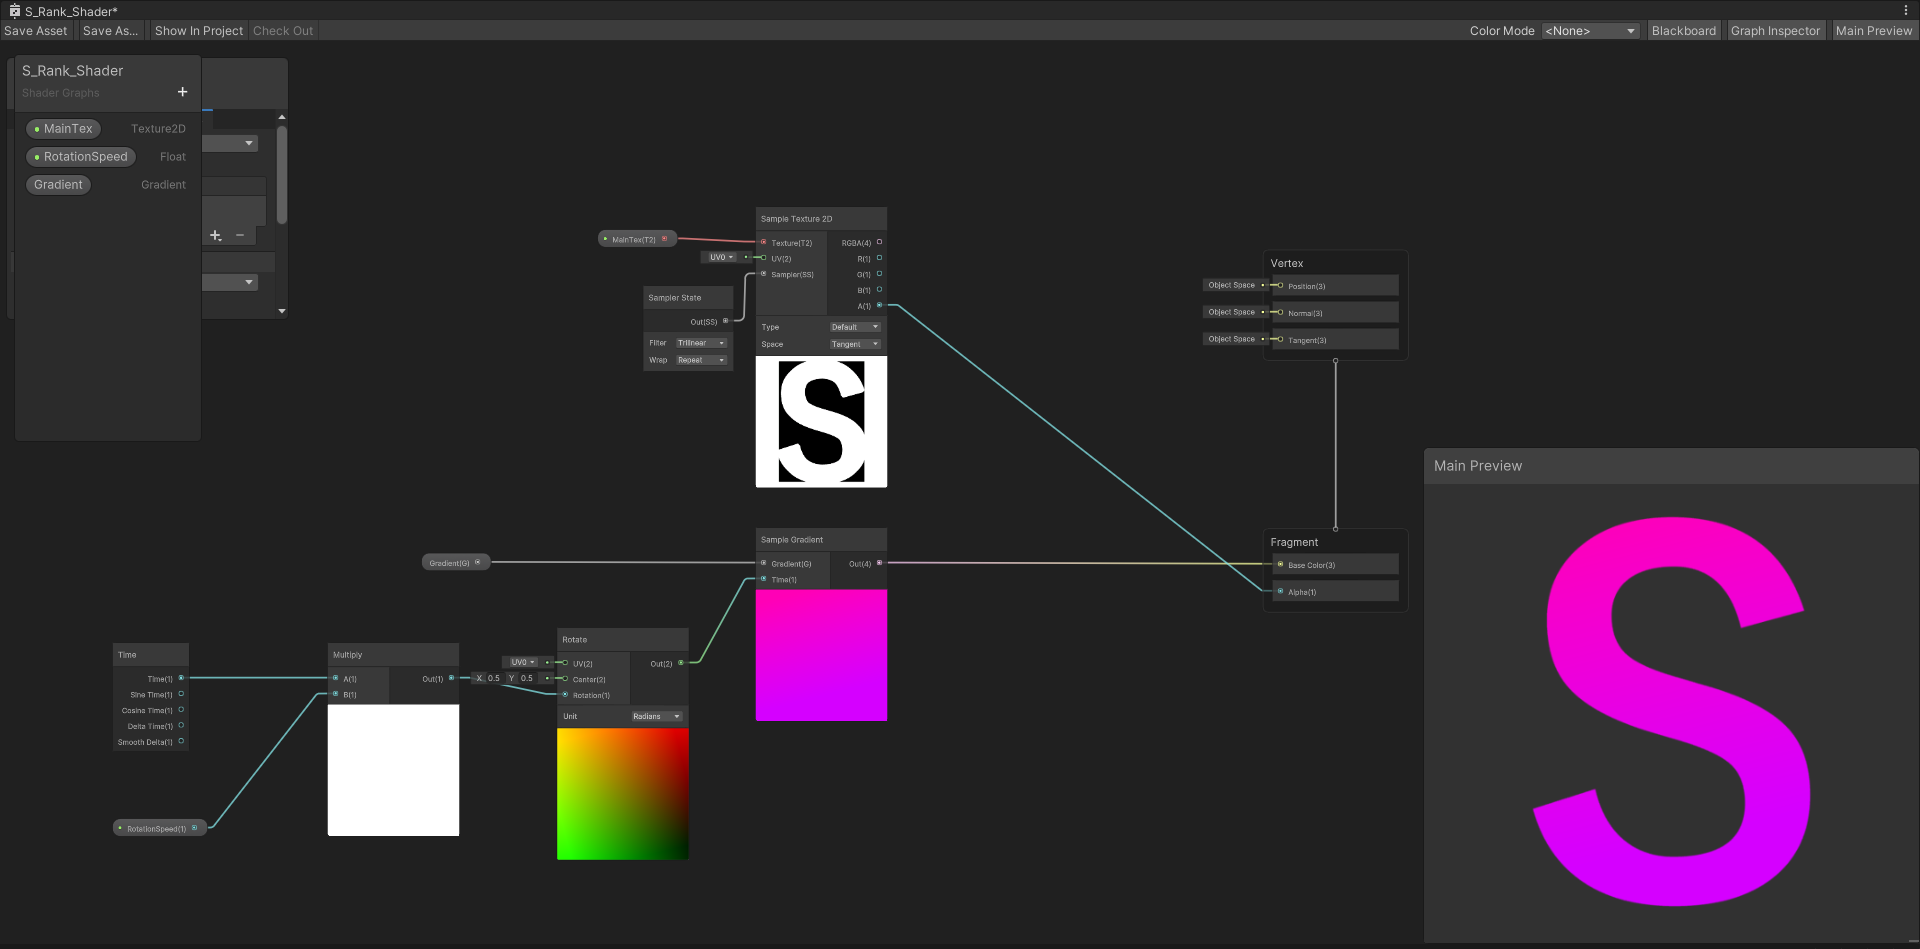
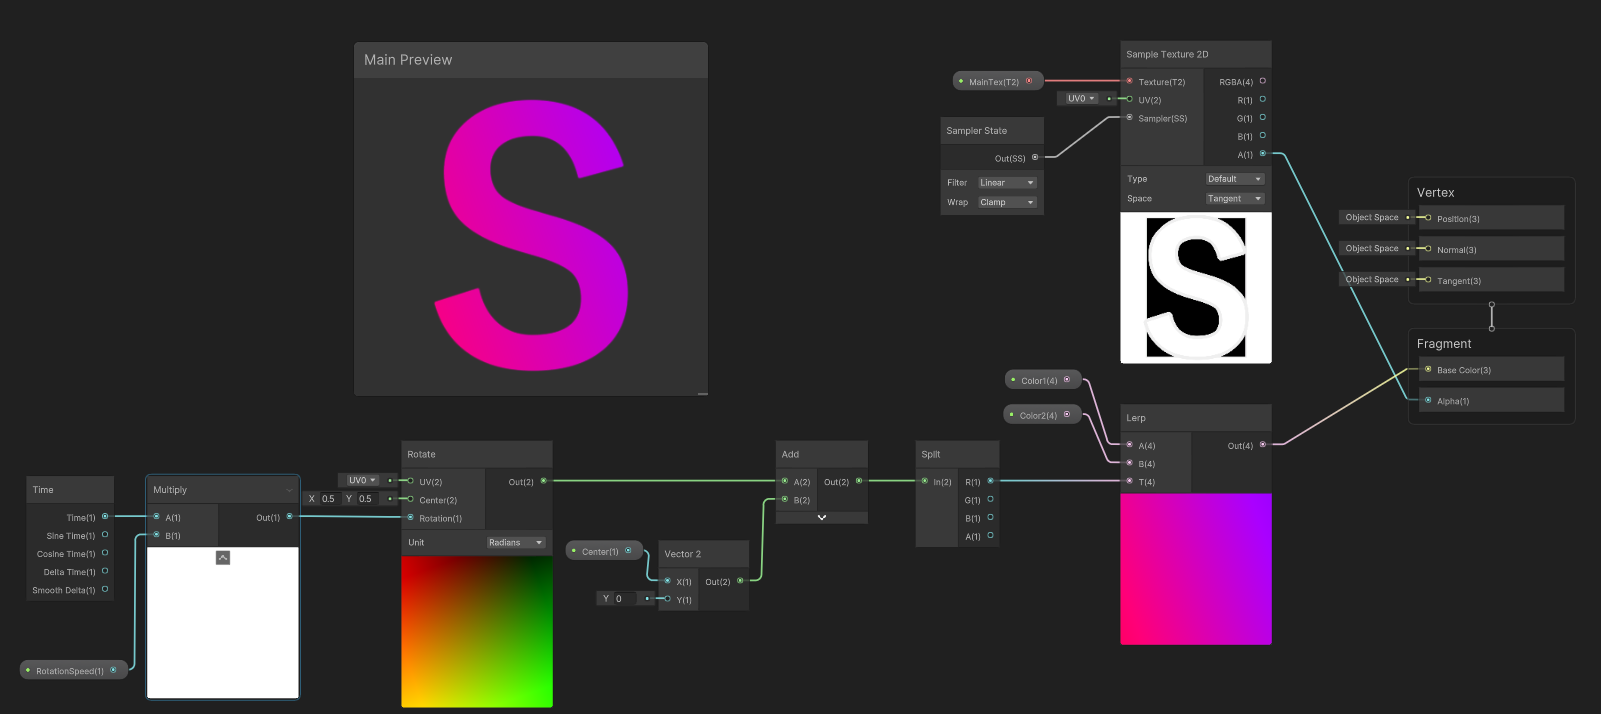
Shader&resultの部分改良

Changed region(s): [[0.0, 0.0, 0.9994, 1.0]]

diff --git a/killthebeat.html b/killthebeat.html
@@ -118,15 +118,18 @@
                     <h2>リザルトシーン</h2>
                     <p>数値の部分はResultManagerクラスが変更をしているだけなので特に目立った部分はありません。ここではShader Graphで書いた部分を紹介します。
                         デザイナーの要望に合わせて、「中の色の部分を2色のグラデーションで回転してほしい」と要望いただきました。<br>
-                        図に書いてあるように、処理としてはすごくコンパクトにできたと思います。
+                        図に書いてあるように、処理としてはすごくコンパクトにできたと思います。<br>
+                        アウトラインの部分はもともとある画像の上にアウトラインの画像を重ね表現できています。
                     </p>
                     <div class="kill_img">
                         <img src="./KillTheBeat/result.png" alt="">
                         <img src="./KillTheBeat/Rank_Shader.png" alt="">
+                        <img src="./KillTheBeat/RankShaderOutline.png" alt="">
                     </div>
                     <h2>インスペクタ拡張</h2>
-                    <p>個人的に、今回実装したかった機能は、スイッチをON/OFFすることで不要な設定を非表示にしたり、表示したりすることができる機能です。<br>
-                        今後は、さらに学習を深め、Inspector上に便利な機能を実装していきたいと考えています。
+                    <p>個人的に、今回実装したかった機能は、スイッチをON/OFFすることで不要な設定を非表示にしたり、表示したりすることができる機能です。この機能により、必要のない項目を設定しなくてもよくなり、不必要なエラーを回避することができます。<br><br>
+                        この機能は、Inspector上で非常に使いやすく、必要なときにだけ必要な項目を表示することができるので、開発者の生産性を向上させることができます。また、この機能は、設定項目の数が多い場合にも非常に便利で、開発者が混乱することを避けることができます。<br><br>
+                        今後は、この機能をさらに改善して、Inspector上でより便利な機能を実装していく予定です。これにより、開発者がより簡単かつ迅速に必要な設定を行うことができ、より使いやすいツールを提供することができます。
                     </p>
                     <div class="kill_img">
                         <img src="./KillTheBeat/InspectorEX.PNG" alt="">
